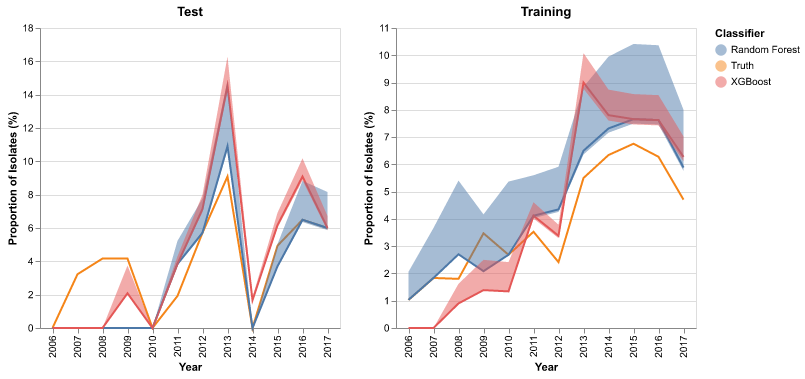
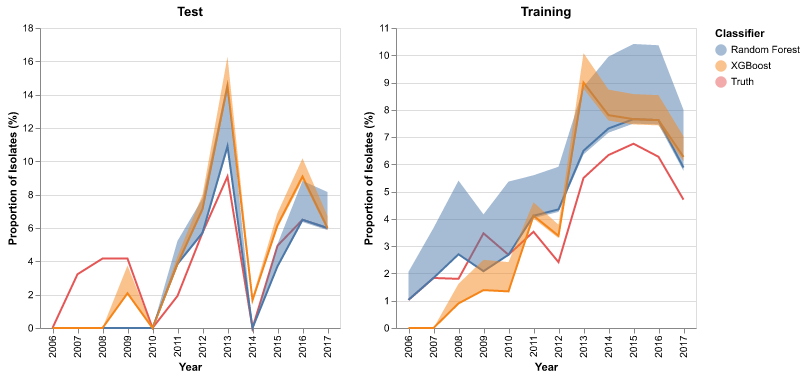
homoginizing plot colors

diff --git a/scripts/classifierutils.py b/scripts/classifierutils.py
@@ -277,22 +277,6 @@ def testClassifiers(df:pd.core.frame.DataFrame, err_df:pd.core.frame.DataFrame, 
             for metric in fold_means.index:
                 printstr += f"{metric:12s}:\t{fold_means.loc[metric]:5f} +/- {fold_stds.loc[metric]:5f}\n"
 
-            # out_str += f"Accuracy: \t{acc:.5f}\n"
-            # out_str += f"F1-Score: \t{f1:.5f}\n"
-            # out_str += f"Precision: \t{precision:.5f}\n"
-            # out_str += f"Recall:  \t{recall:.5f}\n"
-            # out_str += f"Specificity: \t{specificity:.5f}\n"
-            # out_str += f"Sensitivity: \t{sensitivity:.5f}\n"
-            # out_str += f"Confusion Matrix: \n{conf}\n"
-            # print(split, cname)
-            # print(fold_means)
-            # print(fold_stds)
-            # print(fold_means.index)
-            # exit()
-
-
-        # ## Save the current dataset's predictions
-        # pred_df.to_csv(f"training-metrics/{pan_str}/{prefix}_{split}-predictions.csv")
 
         ## Add a column to specify the data group
         alt_df["Dataset"] = split
@@ -325,7 +309,7 @@ def testClassifiers(df:pd.core.frame.DataFrame, err_df:pd.core.frame.DataFrame, 
         line = alt.Chart(alt_df).mark_line().encode(
             x="Year:O",
             y=alt.Y("Fraction:Q", title="Proportion of Isolates (%)"),
-            color="Classifier:N"
+            color=alt.Color("Classifier:N", sort=classifier_names+["Truth"])
         ).properties(
             title=split
         )
@@ -333,7 +317,7 @@ def testClassifiers(df:pd.core.frame.DataFrame, err_df:pd.core.frame.DataFrame, 
             x="Year:O",
             y=alt.Y("max:Q", title="Proportion of Isolates (%)"),
             y2=alt.Y2("min:Q", title="Proportion of Isolates (%)"),
-            color="Classifier:N"
+            color=alt.Color("Classifier:N", sort=classifier_names+["Truth"])
         )
         chrt = line+err_band
         chrt = chrt.properties(width=300, height=300)
